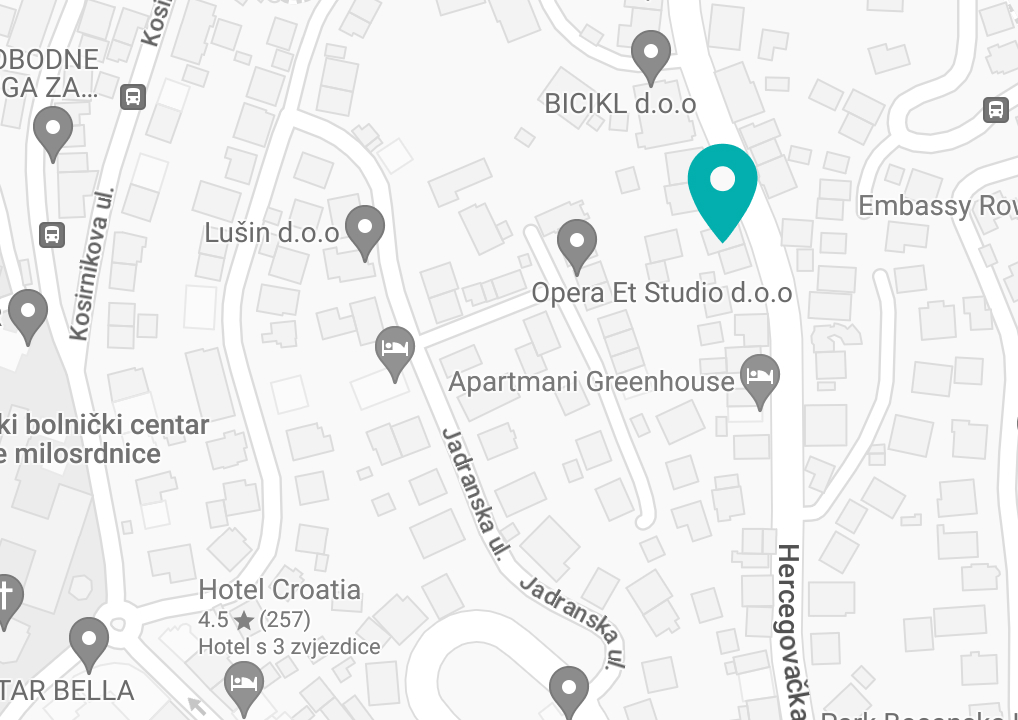
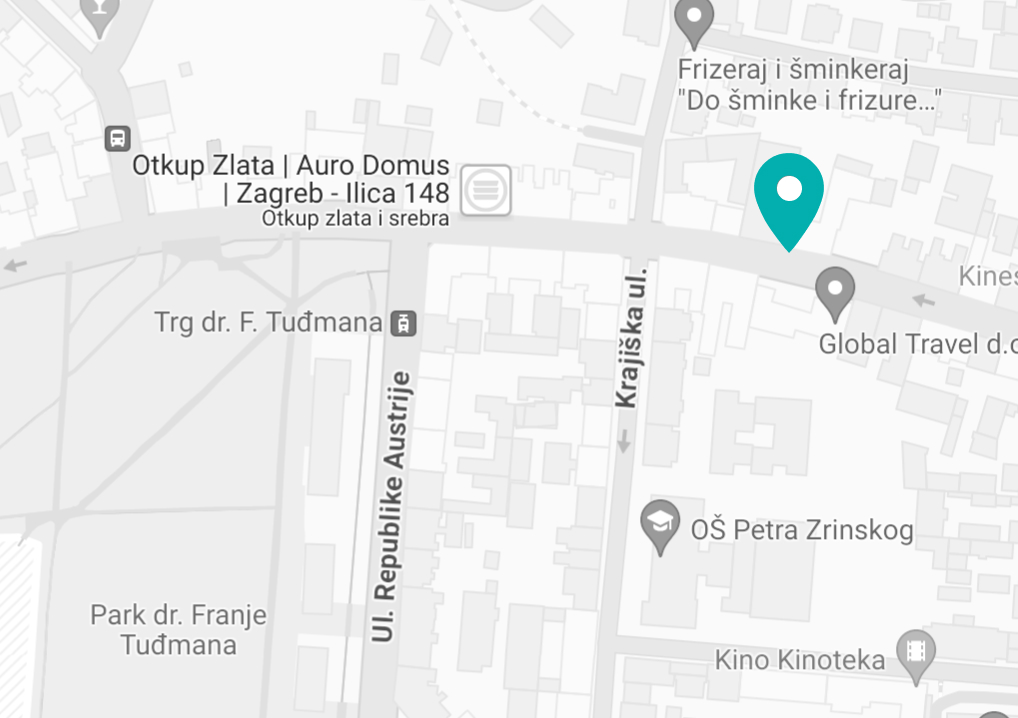
small-updates

diff --git a/src/components/sections/Contact.vue b/src/components/sections/Contact.vue
@@ -1,7 +1,7 @@
 <template>
   <div id="contact" class="contact">
     <a
-        href="https://www.google.com/maps/place/Hercegova%C4%8Dka+ul.+59,+10000,+Zagreb,+Hrvatska/@45.8165184,15.954579,17z/data=!3m1!4b1!4m6!3m5!1s0x4765d6df9c4958d3:0x3a845637937cd51d!8m2!3d45.8165184!4d15.9571539!16s%2Fg%2F11ft0lclvk?entry=ttu"
+        href="https://www.google.com/maps/place/Ilica+134,+10000,+Zagreb,+Croatia/@45.8131184,15.9569435,17z/data=!3m1!4b1!4m6!3m5!1s0x4765d6e0bc17bf79:0x979e49bc7c0f5b6!8m2!3d45.8131147!4d15.9595184!16s%2Fg%2F11c2dm1y32?entry=ttu"
         class=" contact__map lh-0"
         target="_blank"
     >
@@ -18,7 +18,7 @@
           <div class="data is-flex is-align-items-center" style="gap: 10px">
             <svg-icons icon="location" stroke="#22625D"/>
             <p>
-              Hercegovačka ulica 59, 10000 Zagreb
+              Ilica 134, 10000 Zagreb
             </p>
           </div>
           <div class="data is-flex is-align-items-center" style="gap: 10px">
@@ -38,6 +38,15 @@
         <button class="button is-fullwidth" @click="modals.contact = true">
           Kontaktirajte nas
         </button>
+
+        <div class="social-media">
+          <a href="https://www.facebook.com/drugi.pogled.savjetovanje" target="_blank">
+            <svg-icons icon="facebook" stroke="transparent" fill="#03AFAE" :width="24" :height="24"/>
+          </a>
+          <a href="https://www.instagram.com/drugi_pogled_savjetovanje/" target="_blank">
+            <svg-icons icon="instagram" view-box="0 0 242 242" stroke="transparent" fill="#03AFAE" :width="24" :height="24"/>
+          </a>
+        </div>
       </div>
     </div>
 
@@ -85,6 +94,11 @@ export default Contact;
   .contact__content {
     background: #222F4F;
     min-height: 350px;
+    padding-bottom: 180px;
+
+    @media screen and (max-width: 768px) {
+      padding-bottom: 20px;
+    }
 
     .contact__info {
       background: #fff;
@@ -128,6 +142,28 @@ export default Contact;
             font-size: 18px;
           }
         }
+      }
+    }
+  }
+
+  .social-media {
+    display: flex;
+    margin-bottom: 20px;
+    width: 100%;
+    align-items: center;
+    justify-content: center;
+    padding-top: 20px;
+
+    .vue-icon__wrapper {
+      padding: 4px;
+      margin: 0 10px;
+      //border: 2px solid #8fd9a8;
+      border-radius: 50%;
+      transition: all 250ms ease;
+      cursor: pointer;
+
+      &:hover {
+        transform: scale(1.08);
       }
     }
   }

diff --git a/src/components/sections/AboutMe.vue b/src/components/sections/AboutMe.vue
@@ -16,7 +16,7 @@
               Ja sam Danijela Tadić, magistra pedagogije i edukantica Gestalt psihoterapije pod supervizijom. Oduvijek me privlačila ideja kako pomoći drugima i bolje se međusobno razumjeti. Na taj put krećem upisujući studij pedagogije. Profesionalnu karijeru započinjem radom u osnovnoj školi te u sustavu obrazovanja ostajem duži period. Dodatno sam se educirala u području profesionalnog usmjeravanja i savjetovanja u razvoju karijere te sam završila program stručnog usavršavanja vezano uz upravljanje ljudskim resursima. S Gestaltom sam se susrela kad sam imala 25 godina. Moja terapeutica me primila za ruku i povela na jedno nevjerojatno putovanje. Pružajući mi podršku često me je poticala da „bacim“ drugi pogled na stvari. Gestalt i ja družili smo se tijekom svih ovih godina na različite načine.
             </p>
             <p class="p-b-15">
-              Tijekom trogodišnjeg osobnog iskustva partnerske terapije prema Imago principima javila mi se želja za potpunijim upoznavanjem sebe te prije tri i pol godine upisujem edukaciju za Gestalt psihoterapeuta pri Centru IGW Zagreb te sam trenutno edukantica 3. godine. Prije nepune dvije godine odlučila sam da se u potpunosti želim posvetiti psihoterapijskom radu s klijentima te sam otvorila privatnu praksu. Svoje daljnje stručno usavršavanje planiram u smjeru partnerske terapije prema Imago principima.
+              Tijekom trogodišnjeg osobnog iskustva partnerske terapije prema Imago principima javila mi se želja za potpunijim upoznavanjem sebe te prije tri i pol godine upisujem edukaciju za Gestalt psihoterapeuta pri Centru IGW Zagreb te sam trenutno edukantica 4. godine. Prije nepune dvije godine odlučila sam da se u potpunosti želim posvetiti psihoterapijskom radu s klijentima te sam otvorila privatnu praksu. Svoje daljnje stručno usavršavanje planiram u smjeru partnerske terapije prema Imago principima.
             </p>
             <p class="p-b-15">
               Kao vanjski suradnik u pružanju psihoterapijskih i savjetodavnih usluga surađujem s Centrom za poremećaje hranjenja BEA. Kontinuirano se dodatno educiram i usavršavavam te sam uključena u superviziju psihoterapijskog rada s ciljem što kvalitetnijeg rada s klijentima.

diff --git a/src/components/base/Footer.vue b/src/components/base/Footer.vue
@@ -12,17 +12,17 @@
           </router-link>
         </div>
       </div>
-<!--      <div class="social-media">-->
-<!--        <a href="" target="_blank">-->
-<!--          <svg-icons icon="facebook" stroke="transparent" fill="#8FD9A8" :width="24" :height="24"/>-->
-<!--        </a>-->
-<!--        <a href="" target="_blank">-->
-<!--          <svg-icons icon="instagram" view-box="0 0 242 242" stroke="transparent" fill="#8FD9A8" :width="24" :height="24"/>-->
-<!--        </a>-->
-<!--      </div>-->
       <div class="contact-mail">
-        <a href="mailto:info@riverdrina.ba">
+        <a href="mailto:info@drugipogled.hr">
           info@drugipogled.hr
+        </a>
+      </div>
+      <div class="social-media">
+        <a href="https://www.facebook.com/drugi.pogled.savjetovanje" target="_blank">
+          <svg-icons icon="facebook" stroke="transparent" fill="#03AFAE" :width="24" :height="24"/>
+        </a>
+        <a href="https://www.instagram.com/drugi_pogled_savjetovanje/" target="_blank">
+          <svg-icons icon="instagram" view-box="0 0 242 242" stroke="transparent" fill="#03AFAE" :width="24" :height="24"/>
         </a>
       </div>
     </div>
@@ -136,15 +136,15 @@ export default Footer;
       margin-bottom: 20px;
 
       .vue-icon__wrapper {
-        padding: 8px;
+        padding: 4px;
         margin: 0 10px;
-        border: 2px solid #8fd9a8;
+        //border: 2px solid #8fd9a8;
         border-radius: 50%;
         transition: all 250ms ease;
         cursor: pointer;
 
         &:hover {
-          transform: scale(1.05);
+          transform: scale(1.08);
         }
       }
     }

diff --git a/src/components/sections/Services.vue b/src/components/sections/Services.vue
@@ -15,7 +15,7 @@
       </div>
     </div>
     <p>
-      Savjetovanje je moguće dogovoriti u živo ili u online okruženju putem Skypea ili Google Meeta.
+      Savjetovanje je moguće dogovoriti u živo ili u online okruženju putem Skypea, Google Meeta ili Zooma.
     </p>
     <p>
       Radno vrijeme prema dogovoru.
@@ -36,15 +36,15 @@ class Services extends Vue {
   get services() {
     return [
       {
-        name: '<span class="is-block-desktop">Individualno savjetovanje</span> za studente i nezaposlene',
+        name: '<span class="is-block-desktop">Individualno savjetovanje</span> <span class="is-block-desktop">za mlade do 18 godina,</span> studente i nezaposlene',
         price: '25€',
         duration: '60 minuta',
       },
-      {
-        name: '<span class="is-block-desktop">Individualno savjetovanje</span> za mlade do 18 godina',
-        price: '27€',
-        duration: '60 minuta',
-      },
+      // {
+      //   name: '<span class="is-block-desktop">Individualno savjetovanje</span> za mlade do 18 godina',
+      //   price: '27€',
+      //   duration: '60 minuta',
+      // },
       {
         name: '<span class="is-block-desktop">Individualno savjetovanje</span> za zaposlene',
         price: '30€',
@@ -92,7 +92,7 @@ export default Services;
       flex-direction: column;
       justify-content: center;
       align-items: center;
-      min-height: 58px;
+      min-height: 72px;
       margin-bottom: 10px;
 
       h2 {

diff --git a/public/index.html b/public/index.html
@@ -9,12 +9,22 @@
       <meta name="subtitle" content="Savjetovanje i poduka">
       <meta name="description" content="Savjetovanje i poduka">
       <meta name="keywords" content="Drugi pogled, Gestalt terapija, Savjetovanje i poduka, Psioherapija, Zagreb, Danijela Tadic, partnersko savjetovanje, savjetovanje za mlade, individualno savjetovanje">
-      <meta property="og:image" content="<%= BASE_URL %>river_drina.png" />
+      <meta property="og:image" content="<%= BASE_URL %>drugi-pogled.ico" />
       <meta property="og:title" content="Drugi Pogled">
       <meta property="og:subtitle" content="Savjetovanje i poduka">
       <meta property="og:description" content="Savjetovanje i poduka">
       <meta property="og:keywords" content="Drugi pogled, Gestalt terapija, Savjetovanje i poduka, Psioherapija, Zagreb, Danijela Tadic, partnersko savjetovanje, savjetovanje za mlade, individualno savjetovanje">
       <title>Drugi Pogled - savjetovanje i poduka</title>
+
+      <!-- Google tag (gtag.js) -->
+      <script async src="https://www.googletagmanager.com/gtag/js?id=AW-16461670643"></script>
+      <script>
+          window.dataLayer = window.dataLayer || [];
+          function gtag(){dataLayer.push(arguments);}
+          gtag('js', new Date());
+
+          gtag('config', 'AW-16461670643');
+      </script>
   </head>
   <body>
     <noscript>

diff --git a/src/components/sections/AboutGestalt.vue b/src/components/sections/AboutGestalt.vue
@@ -3,7 +3,8 @@
       <div class="section">
         <div class="columns is-multiline">
           <div class="column is-4 column--image lh-0">
-            <img src="@/assets/images/Gestalt_therapy.png" alt="Gestalt therapy"/>
+            <img src="@/assets/images/Gestalt_therapy.png" alt="Gestalt therapy" class="is-hidden-mobile"/>
+            <img src="@/assets/images/Gestalt_therapy_mobile.png" alt="Gestalt therapy" class="is-hidden-tablet"/>
           </div>
           <div class="column is-8 column--text is-flex is-flex-direction-column is-justify-content-flex-end">
             <h1>

diff --git a/src/main.ts b/src/main.ts
@@ -4,9 +4,13 @@ import Icons from "@/components/base/Icons.vue";
 import VueI18n from 'vue-i18n';
 import Buefy from 'buefy';
 import 'buefy/dist/buefy.css';
+import VueAnalytics from 'vue-analytics';
 
 Vue.use(VueI18n);
 Vue.use(Buefy);
+Vue.use(VueAnalytics, {
+    id: 'AW-16461670643'
+});
 
 import router from './router';
 
